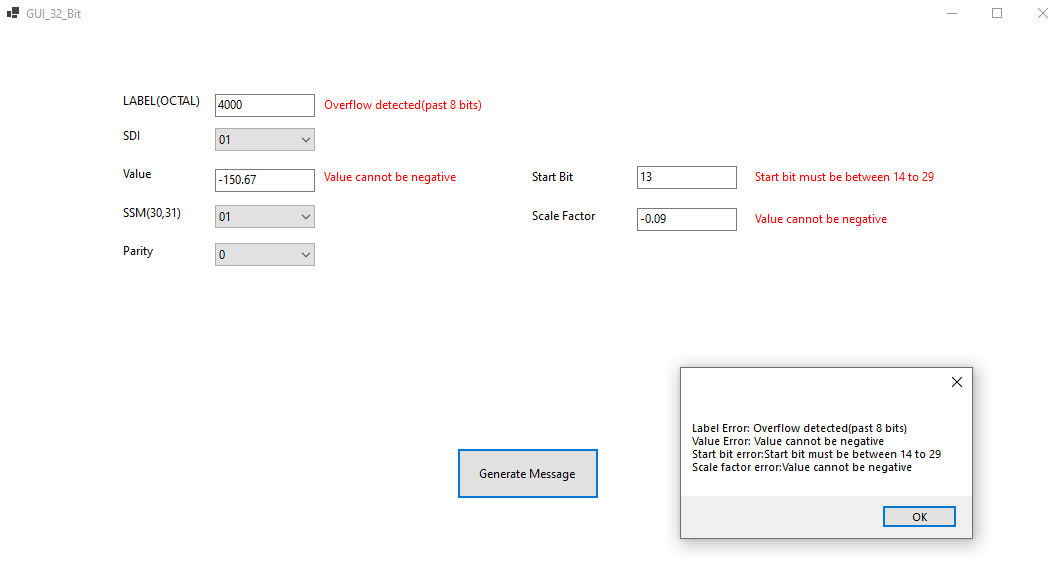
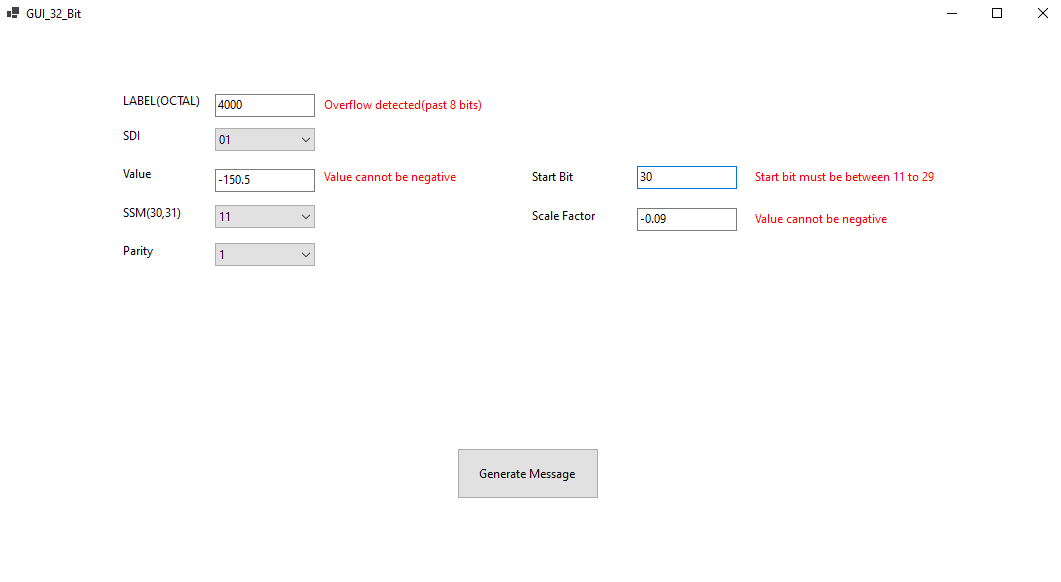
added more test cases, fixed bug that allows two value error messages to show up, only one necessary

diff --git a/GUI_32_Bit/obj/Debug/net8.0-windows/GUI_32_Bit.AssemblyInfo.cs b/GUI_32_Bit/obj/Debug/net8.0-windows/GUI_32_Bit.AssemblyInfo.cs
@@ -14,7 +14,7 @@ using System.Reflection;
 [assembly: System.Reflection.AssemblyCompanyAttribute("GUI_32_Bit")]
 [assembly: System.Reflection.AssemblyConfigurationAttribute("Debug")]
 [assembly: System.Reflection.AssemblyFileVersionAttribute("1.0.0.0")]
-[assembly: System.Reflection.AssemblyInformationalVersionAttribute("1.0.0+38cd4b20d695e5494bee4cf15e3540c397e2ddd1")]
+[assembly: System.Reflection.AssemblyInformationalVersionAttribute("1.0.0+262365478d1bffbbc1620a53c0d00acda4a20ec2")]
 [assembly: System.Reflection.AssemblyProductAttribute("GUI_32_Bit")]
 [assembly: System.Reflection.AssemblyTitleAttribute("GUI_32_Bit")]
 [assembly: System.Reflection.AssemblyVersionAttribute("1.0.0.0")]

diff --git a/GUI_32_Bit/Form1.cs b/GUI_32_Bit/Form1.cs
@@ -79,7 +79,7 @@ namespace GUI_32_Bit
 
 
             //Out of bounds for scale factor and value factor multiplied
-            if( !(value_error && scaleFactor_error && startBit_error) )
+            if( !(value_error || scaleFactor_error || startBit_error) )
             {
                 Decimal scaleFactor = Convert.ToDecimal(scale_factor_textbox.Text);
                 Decimal value = Convert.ToDecimal(value_textbox.Text);
